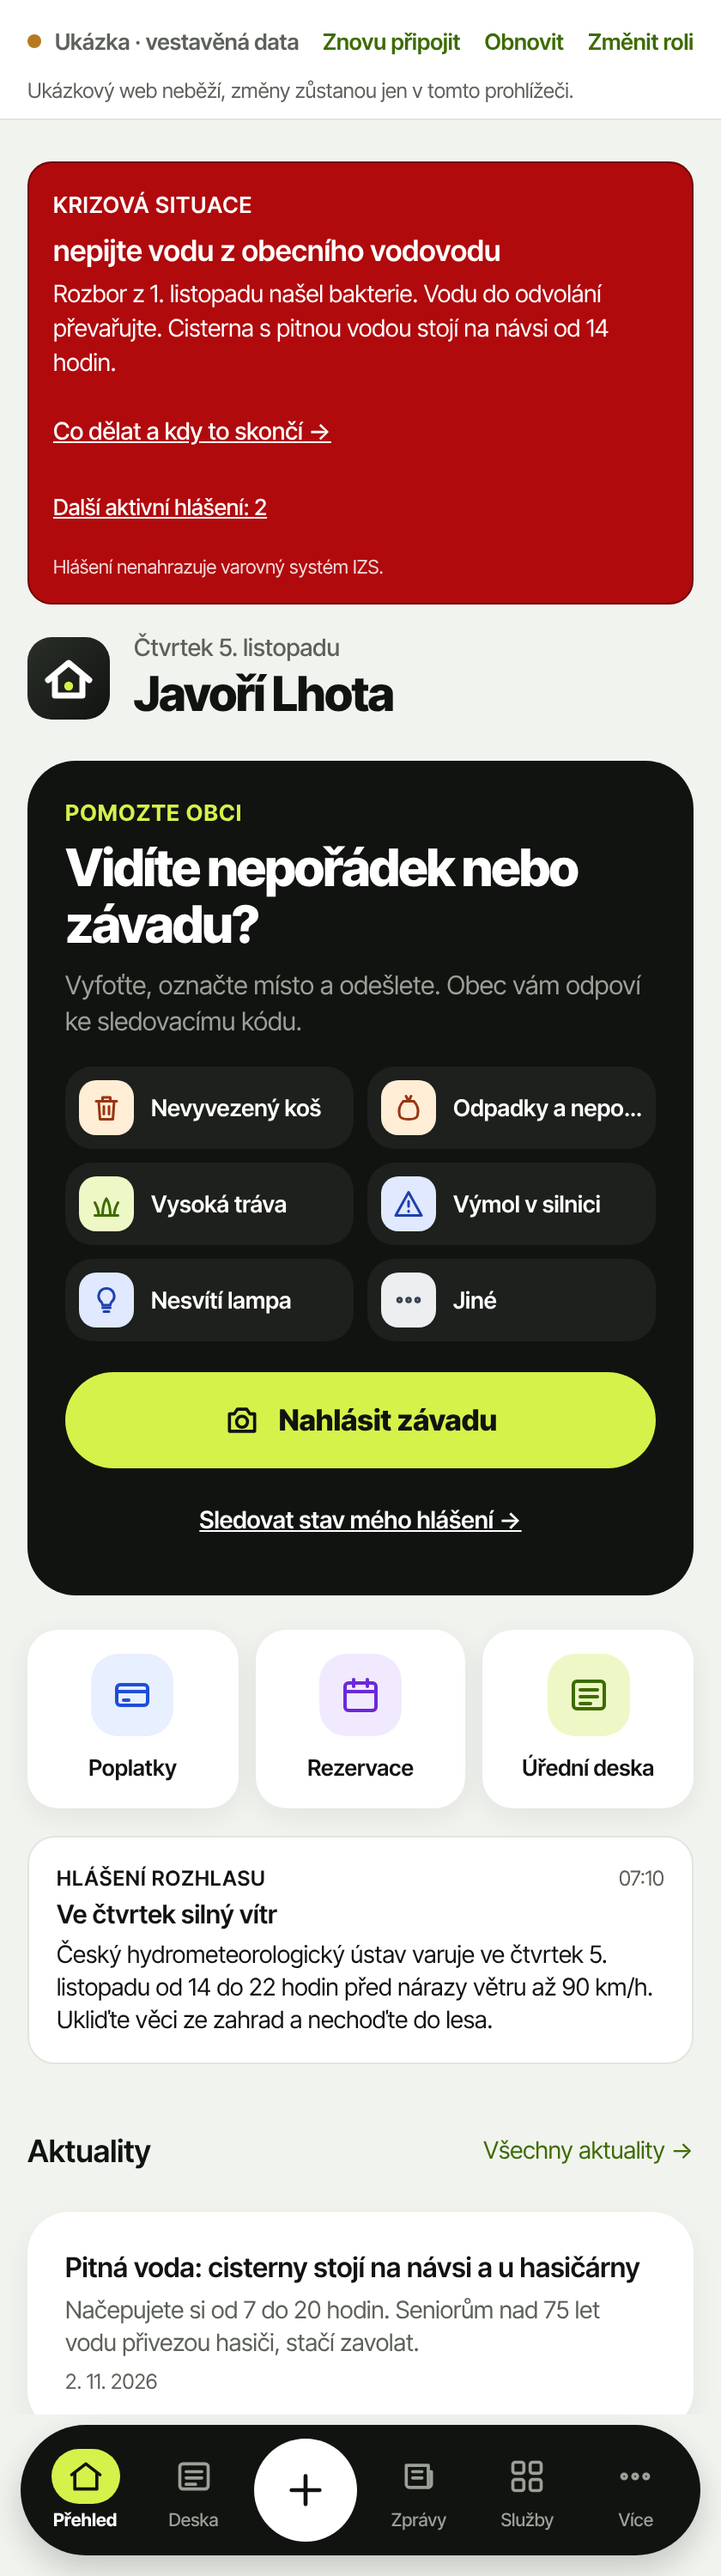
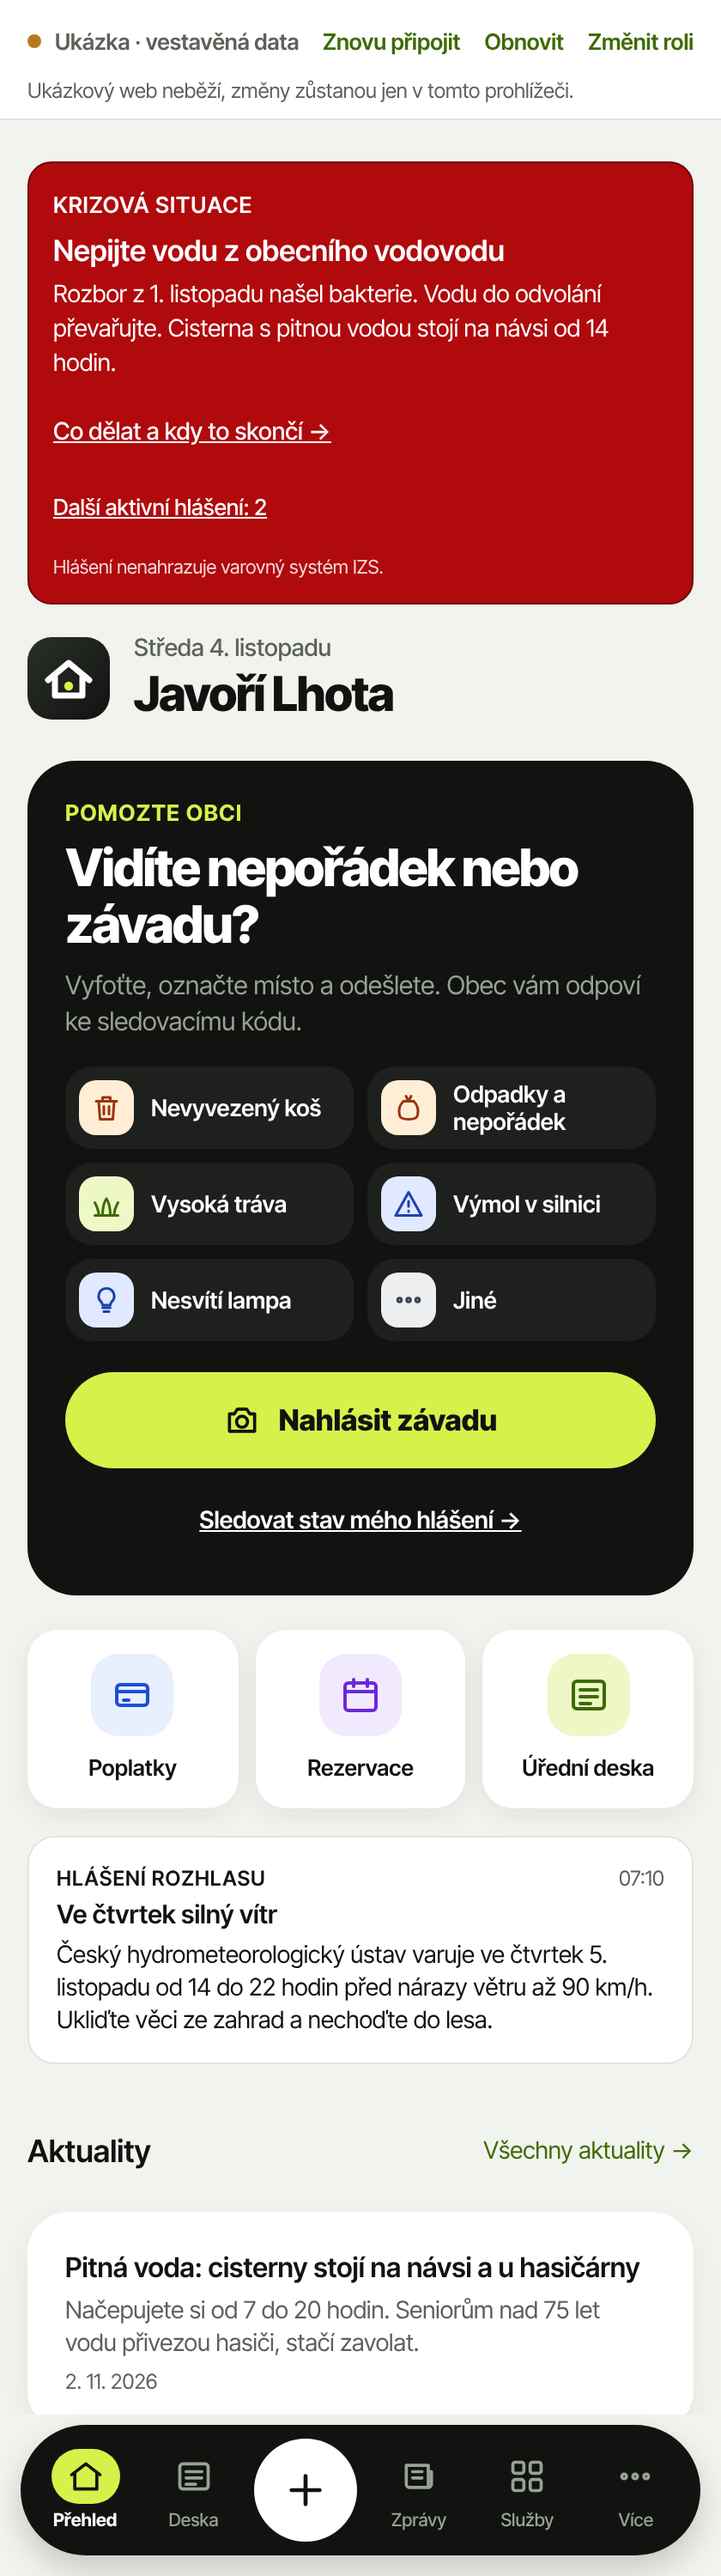
Připrav finální MVP: česká stránka 404, dokumentace a snímky
- Neznámá adresa ukáže českou stránku „Stránka nenalezena“ místo
  výchozí anglické stránky Expo (hlídá průchod v prohlížeči, 39 kroků).
- README: celková kontrola MVP, adresy úřadu /urad/..., vzhled,
  nahlašování závad, správná cesta kontroly API a překlad cest exportu.
- PREDANI: stav MVP k 6. 11. 2026, ověření a otevřené body.
- Obnoveny snímky v snimky-ukazka (včetně přehledu úřadu).

Claude-Session: https://claude.ai/code/session_01XrgFpfov3V2yXWRzGgnmTr

diff --git a/apps/mobile/app/+not-found.tsx b/apps/mobile/app/+not-found.tsx
@@ -1,0 +1,51 @@
+import React from 'react'
+import { View, Text, StyleSheet } from 'react-native'
+import { Stack, useRouter } from 'expo-router'
+import { useTema } from '@/tema'
+import { Logo, Tlacitko } from '@/ui'
+
+/** Česká stránka pro neznámou adresu (místo výchozí anglické stránky Expo). */
+export default function NenalezenoScreen() {
+  const router = useRouter()
+  const { barvy, pismo } = useTema()
+  return (
+    <View style={[styles.kontejner, { backgroundColor: barvy.bg }]}>
+      <Stack.Screen options={{ title: 'Stránka nenalezena' }} />
+      <Logo velikost={56} />
+      <Text
+        role="heading"
+        aria-level={1}
+        style={[styles.nadpis, { color: barvy.ink, fontFamily: pismo.rodina }]}
+      >
+        Stránka nenalezena
+      </Text>
+      <Text style={[styles.text, { color: barvy.muted, fontFamily: pismo.rodina }]}>
+        Tato adresa v aplikaci neexistuje. Obrazovky úřadu najdete pod /urad.
+      </Text>
+      <Tlacitko nazev="Zpět do aplikace" varianta="akcent" onPress={() => router.replace('/')} />
+    </View>
+  )
+}
+
+const styles = StyleSheet.create({
+  kontejner: {
+    flex: 1,
+    alignItems: 'center',
+    justifyContent: 'center',
+    padding: 24,
+    gap: 12,
+  },
+  nadpis: {
+    fontSize: 28,
+    fontWeight: '800',
+    letterSpacing: -0.6,
+    textAlign: 'center',
+  },
+  text: {
+    fontSize: 15,
+    lineHeight: 21,
+    textAlign: 'center',
+    maxWidth: 320,
+    marginBottom: 8,
+  },
+})

diff --git a/apps/mobile/README.md b/apps/mobile/README.md
@@ -30,12 +30,12 @@ Na obrazovkách širších než telefon se aplikace zobrazí v centrovaném rám
 
 ### 3. Režimy zdroje dat (`vestavene` vs. `api`)
 Aplikace podporuje dva režimy, mezi kterými automaticky přepíná:
-1. **Offline ukázka (`vestavene`)** – výchozí stav, pokud není nastavena proměnná `EXPO_PUBLIC_API_URL` nebo pokud server neodpovídá do 2,5 s. Veškerá data se načítají z `@codekom/demo-data` (obec Javoří Lhota) a změny (nové závady, vydané krize, rezervace) se ukládají do `AsyncStorage` v prohlížeči. Tlačítko **„Obnovit ukázku“** v horním pruhu vrátí stav do výchozího semínka.
+1. **Offline ukázka (`vestavene`)** – výchozí stav, pokud není nastavena proměnná `EXPO_PUBLIC_API_URL` (pak se API vůbec nezkouší) nebo pokud server neodpovídá do 2,5 s. Veškerá data se načítají z `@codekom/demo-data` (obec Javoří Lhota) a změny (nové závady, vydané krize, rezervace) se ukládají do `AsyncStorage` v prohlížeči. Tlačítko **„Obnovit ukázku“** v horním pruhu vrátí stav do výchozího semínka.
 2. **Připojeno k ukázkovému serveru (`api`)** – pokud v `.env` nastavíte:
    ```env
    EXPO_PUBLIC_API_URL=http://localhost:3000
    ```
-   Aplikace ověří dostupnost přes `GET /api/ukazka/obce`. Při výpadku spojení nebo chybě CORS se bez pádu přepne na vestavěná data a zobrazí tlačítko **„Zkusit znovu“**.
+   Aplikace ověří dostupnost přes `GET /api/obce`. Při výpadku spojení nebo chybě CORS se bez pádu přepne na vestavěná data a zobrazí tlačítko **„Zkusit znovu“**.
 
 ### 4. CORS a propojení s webem (zadání 07)
 Při běhu proti lokálnímu serveru `apps/web` (port 3000) povolte původ mobilní aplikace (`http://localhost:8081` nebo port statického serveru) v konfiguraci webu a povolte hlavičky `Content-Type` a `X-Ukazka-Role`.
@@ -46,6 +46,21 @@ Aplikace je nakonfigurována s `web.output: "static"`. Statický export vygeneru
 pnpm --filter mobile export:web
 pnpm --filter mobile serve:web
 ```
+`serve:web` vrací pro každou cestu stránku, kterou pro ni Expo vygenerovalo (`deska.html`, `deska/index.html`, dynamické `deska/[id].html`), a neznámé cesty jako 404. Hosting zveřejněné ukázky musí cesty překládat stejně, jinak React hlásí chybu hydratace #418.
+
+### 6. Celková kontrola MVP
+Před předáním nebo nasazením spusťte z kořene repozitáře:
+```bash
+pnpm typecheck
+pnpm lint
+pnpm test
+pnpm --filter mobile export:web
+pnpm --filter mobile kontrola:web
+```
+`kontrola:web` (`scripts/kontrola-web.cjs`) projde statický export v Chromiu na 390 × 844 v 39 krocích: úvod a volbu role, všechny obrazovky občana a služeb, filtry a detail desky, nahlášení závady se sledovacím kódem a dohledáním stavu, tlačítko „+“, přihlášení úřadu kódem, obnovení stránky v roli úřadu, vydání krize (a že ji občan vidí), změnu stavu závady a omezení redaktora a českou stránku pro neznámou adresu. Na každé obrazovce hlídá pády, chyby v konzoli, rozbité texty („undefined“, „NaN“) a vodorovné přetečení. Potřebuje Playwright s Chromiem.
+
+### 7. Vzhled
+Černá a limetková na světle šedém pozadí, bílé karty se zaoblením 24 px, písmo Inter Tight (na webu z Google Fonts), plovoucí tmavá spodní lišta s aktivní záložkou v limetkovém kruhu. Barvy jsou v `src/tema/tema.tsx` (kontrasty WCAG AA hlídá test `tema.test.ts`), ikony v `src/ui/Ikony.tsx`, logo v `src/ui/Logo.tsx`. Snímky obrazovek jsou ve složce `snimky-ukazka/` v kořeni repozitáře.
 
 ---
 
@@ -56,7 +71,7 @@ pnpm --filter mobile serve:web
 - **Úřední deska:** Seznam vyvěšených dokumentů, vyhledávání, filtry kategorií, detail dokumentu a archiv sejmutých dokumentů (respektuje příznak *Po sejmutí nezveřejňovat*).
 - **Zprávy a akce:** Aktuality obce a kalendář kulturních či spolkových akcí.
 - **Služby – Základní agenda:**
-  - **Nahlásit závadu:** Formulář s výběrem kategorie, fotkou, polohou a okamžitým vygenerováním osmimístného sledovacího kódu (Crockford Base32).
+  - **Nahlásit závadu:** Hlavní funkce aplikace. Otevírá se tlačítkem „+“ uprostřed spodní lišty, velkou kartou „Vidíte nepořádek nebo závadu?“ na přehledu (se zkratkami nejčastějších kategorií) i ze Služeb. Formulář nabízí 16 kategorií jako dlaždice s ikonou (nevyvezený koš, nepořádek u koše, odpadky, černá skládka, vysoká tráva, stromy a keře, výmol, chodník, lampa, lavička či hřiště, dopravní značka, kanál, sníh a náledí, graffiti, psí exkrementy, jiné), fotku, polohu a okamžitě vygeneruje osmimístný sledovací kód (Crockford Base32). Kategorie jsou v `obsah/javori-lhota/hlaseni-zavad.json`, ikony a barvy v `src/zdroj/kategorieZavad.ts`.
   - **Sledovat stav závady:** Dohledání stavu a veřejné odpovědi úřadu podle kódu.
   - **Poplatky a QR platba:** Přehled poplatků s generováním SPD řetězce a výrazným štítkem *„Ukázka, neplaťte“*.
   - **Rezervace prostor:** Rezervace obecního sálu a klubovny.
@@ -81,6 +96,8 @@ pnpm --filter mobile serve:web
      - **Developer portál (`developer`):** Dokumentace otevřeného REST API a registrace webhooků.
 
 ### Role Úřad
+Obrazovky úřadu mají vlastní adresy `/urad/prehled`, `/urad/krize`, `/urad/zavady` a `/urad/budovy`, aby se nepletly s obrazovkami občana (`/prehled`).
+
 - **Přehled úřadu (`prehled`):** Přepínač podrole **Správce** / **Redaktor**, souhrn nových závad, čekajících rezervací, aktivní krize a stavu budov.
 - **Krize a rozhlas (`krize`):** Editor krizového hlášení a rozhlasu s živým náhledem občanského banneru, počítadlem znaků slovem a kontrolou bezpečných odkazů. **Správce** může hlášení vydat a ukončit jeho platnost; **Redaktor** může pouze uložit koncept. Žádné krizové hlášení nelze smazat.
 - **Závady (`zavady`):** Správa hlášení od občanů, filtrování podle stavu a uložení veřejné odpovědi při vyřízení nebo zamítnutí.

diff --git a/docs/PREDANI.md b/docs/PREDANI.md
@@ -1,6 +1,6 @@
 # Předání: co má udělat session aplikace
 
-Stav ke 4. 11. 2026. Tento repozitář je pro mobilní aplikaci CodeKom (občan a úřad) a pro IoT bránu do obecních budov. Web obcí a jeho API jsou v `mlnamata/codecom` (`apps/web`), firemní web v `mlnamata/codekom_web`.
+Stav k 6. 11. 2026. Tento repozitář je pro mobilní aplikaci CodeKom (občan a úřad) a pro IoT bránu do obecních budov. Web obcí a jeho API jsou v `mlnamata/codecom` (`apps/web`), firemní web v `mlnamata/codekom_web`.
 
 ## Co už je hotové
 
@@ -10,7 +10,20 @@ Stav ke 4. 11. 2026. Tento repozitář je pro mobilní aplikaci CodeKom (občan 
   - `konfigurace.ts`: zod schéma konfigurace brány (připojení Home Assistant, MQTT s předvolbami, Modbus TCP, Shelly RPC, HTTP JSON; protimrazové pravidlo).
   - `zpravy.ts`: témata a zprávy MQTT podle zadání 04 (`codekom/v1/brany/<branaId>/telemetrie|stav|udalost|prikaz|ack|plan|lwt`).
 
-Nic dalšího hotové není. Adaptéry brány (`apps/brana`) se začaly psát, ale práce se zastavila, a proto složka v repozitáři není.
+- **MVP prototypu aplikace** (`apps/mobile`, zadání 08), stav k 6. 11. 2026, větev `claude/youthful-mayer-cq8f79`:
+  - role Občan (přehled, deska, zprávy, služby včetně rozšířených modulů, více) a Úřad (přehled, krize a rozhlas, závady, budovy ke čtení) nad daty Javoří Lhoty, vestavěný režim i režim API,
+  - nahlašování závad je hlavní funkce: tlačítko „+“ v liště, karta na přehledu, 16 kategorií s ikonami, sledovací kód a dohledání stavu,
+  - vzhled černá a limetková s písmem Inter Tight, snímky v `snimky-ukazka/`,
+  - ověření: `pnpm typecheck`, `pnpm lint`, `pnpm test` (58 testů) a `pnpm --filter mobile kontrola:web` (39 kroků v prohlížeči nad statickým exportem), vše prochází,
+  - postup spuštění a kontroly je v `apps/mobile/README.md`.
+
+  Otevřené body MVP:
+  - napojení na ostré API webu 07 není ověřené (API ani CORS v tomto prostředí neběží); nové kategorie závad a kategorie desky v režimu API se berou z vestavěných dat [OVĚŘIT],
+  - hosting zveřejněné ukázky musí překládat cesty na soubory exportu jako `scripts/serve.mjs` (`deska/index.html`, `deska/[id].html`), jinak chyba hydratace,
+  - písmo Inter Tight se zatím načítá jen na webu, nativní aplikace má systémové písmo,
+  - na webu `codecom` je u AI fotografií textový popisek; uživatel chce místo něj vodoznak, rozhodnutí a změna patří do `codecom` [DOPLNIT: kdo změnu udělá].
+
+Adaptéry brány (`apps/brana`) se začaly psát, ale práce se zastavila, a proto složka v repozitáři není.
 
 ## Co udělat
 

diff --git a/docs/progress.md b/docs/progress.md
@@ -24,8 +24,8 @@ Aktualizuj v každém commitu. Kdo: označení sezení nebo agenta.
 | Vzhled podle referencí (černá a limetková, Inter Tight, karty 24 px, plovoucí tmavá lišta s tlačítkem „+“ pro nahlášení závady) | hotovo | session aplikace (design 2) |
 | 16 kategorií závad (koš, nepořádek, vysoká tráva, výmol, lampa, kanál, sníh, vandalismus…) s ikonami a barvami | hotovo | session aplikace (design 2) |
 | Přehled s tmavou kartou „Vidíte nepořádek nebo závadu?“ a zkratkami kategorií, formulář závady s dlaždicemi kategorií, plochou na fotku a limetkovým odesláním | hotovo | session aplikace (design 2) |
-| Celková kontrola MVP: automatický průchod v prohlížeči (`pnpm --filter mobile kontrola:web`, 38 kroků občana i úřadu) a opravy nalezených chyb | hotovo | session aplikace (design 2) |
-| Finální MVP: dokumentace spuštění a předání | dělá se | session aplikace (design 2) |
+| Celková kontrola MVP: automatický průchod v prohlížeči (`pnpm --filter mobile kontrola:web`, 39 kroků občana i úřadu) a opravy nalezených chyb | hotovo | session aplikace (design 2) |
+| Finální MVP: dokumentace spuštění, kontroly a předání (`apps/mobile/README.md`, `docs/PREDANI.md`) | hotovo | session aplikace (design 2) |
 | Ostrá aplikace (zadání 02) | čeká | session aplikace |
 | IoT brána `apps/brana` (zadání 04, část brána) | čeká | session aplikace |
 | Otevření dveří v aplikaci (zadání 04, milník 9) | čeká | session aplikace |
